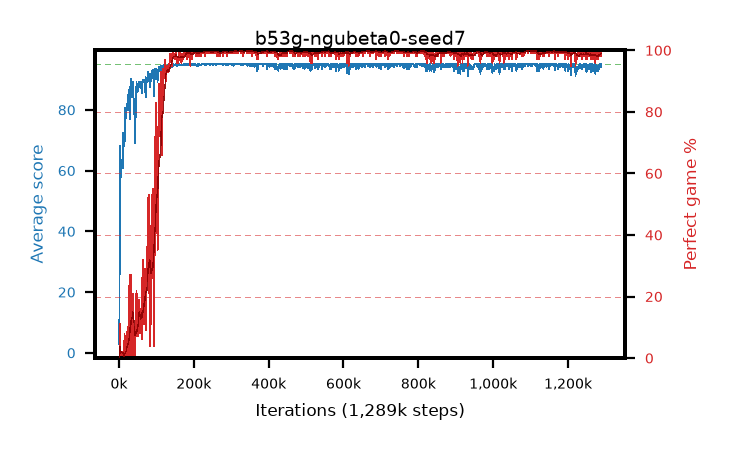
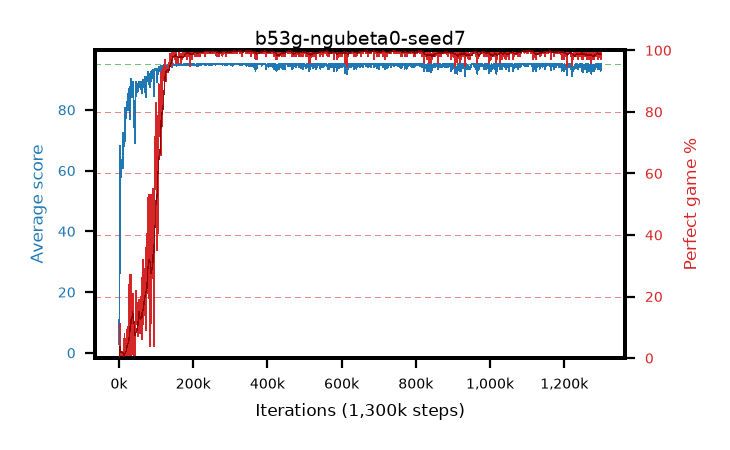
live pictures of 4 arm(s)

diff --git a/results/b53g-ngubeta0-seed7/b53g-ngubeta0-seed7.md b/results/b53g-ngubeta0-seed7/b53g-ngubeta0-seed7.md
@@ -1,6 +1,6 @@
 # b53g-ngubeta0-seed7
 
-step **1,289,000** · 1289 evals · trailing **93.96** · peak **94.97** @274,000 · sef **91.4** · best30 **99.8** @1,111,000
+step **1,300,000** · 1300 evals · trailing **94.14** · peak **94.97** @274,000 · sef **91.5** · best30 **99.8** @1,111,000
 
 ## Config
 
@@ -80,15 +80,15 @@ step **1,289,000** · 1289 evals · trailing **93.96** · peak **94.97** @274,00
 | 2000 | 37.8 | 20.34 | 6.0 | 63.0 | 32.628 | 0.0 | 0.4 |
 | 3000 | 67.99 | 36.22 | 23.0 | 95.0 | 74.006 | 11.0 | 0.4 |
 | ... | ... | ... | ... | ... | ... | ... | ... |
-| 1278000 | 94.29 | 93.82 | 24.0 | 95.0 | 192.045 | 99.0 | 0.4 |
-| 1279000 | 94.26 | 93.88 | 21.0 | 95.0 | 192.007 | 99.0 | 0.4 |
-| 1280000 | 92.62 | 93.88 | 12.0 | 95.0 | 188.29 | 97.0 | 0.4 |
-| 1281000 | 94.71 | 93.9 | 66.0 | 95.0 | 192.457 | 99.0 | 0.4 |
-| 1282000 | 94.31 | 93.89 | 26.0 | 95.0 | 192.053 | 99.0 | 0.4 |
-| 1283000 | 93.41 | 93.84 | 14.0 | 95.0 | 190.122 | 98.0 | 0.4 |
-| 1284000 | 95.0 | 93.87 | 95.0 | 95.0 | 193.786 | 100.0 | 0.4 |
-| 1285000 | 95.0 | 93.92 | 95.0 | 95.0 | 193.787 | 100.0 | 0.4 |
-| 1286000 | 94.2 | 93.91 | 15.0 | 95.0 | 191.945 | 99.0 | 0.4 |
-| 1287000 | 94.22 | 93.94 | 20.0 | 95.0 | 190.969 | 98.0 | 0.4 |
-| 1288000 | 95.0 | 93.98 | 95.0 | 95.0 | 193.783 | 100.0 | 0.4 |
 | 1289000 | 94.2 | 93.96 | 15.0 | 95.0 | 191.948 | 99.0 | 0.4 |
+| 1290000 | 95.0 | 93.96 | 95.0 | 95.0 | 193.786 | 100.0 | 0.4 |
+| 1291000 | 93.47 | 93.98 | 22.0 | 95.0 | 189.146 | 97.0 | 0.4 |
+| 1292000 | 93.46 | 94.02 | 17.0 | 95.0 | 189.171 | 97.0 | 0.4 |
+| 1293000 | 93.49 | 94.02 | 17.0 | 95.0 | 190.199 | 98.0 | 0.4 |
+| 1294000 | 95.0 | 94.02 | 95.0 | 95.0 | 193.782 | 100.0 | 0.4 |
+| 1295000 | 94.9 | 94.04 | 85.0 | 95.0 | 192.685 | 99.0 | 0.4 |
+| 1296000 | 94.92 | 94.04 | 87.0 | 95.0 | 192.714 | 99.0 | 0.4 |
+| 1297000 | 95.0 | 94.11 | 95.0 | 95.0 | 193.785 | 100.0 | 0.4 |
+| 1298000 | 92.83 | 94.06 | 20.0 | 95.0 | 188.497 | 97.0 | 0.4 |
+| 1299000 | 94.21 | 94.06 | 16.0 | 95.0 | 191.959 | 99.0 | 0.4 |
+| 1300000 | 95.0 | 94.14 | 95.0 | 95.0 | 193.793 | 100.0 | 0.4 |

diff --git a/results/b53e-ngubeta0-seed5/b53e-ngubeta0-seed5.md b/results/b53e-ngubeta0-seed5/b53e-ngubeta0-seed5.md
@@ -1,6 +1,6 @@
 # b53e-ngubeta0-seed5
 
-step **1,279,000** · 1279 evals · trailing **94.58** · peak **94.95** @437,000 · sef **92.1** · best30 **99.8** @530,000
+step **1,289,000** · 1289 evals · trailing **94.65** · peak **94.95** @437,000 · sef **92.2** · best30 **99.8** @530,000
 
 ## Config
 
@@ -80,15 +80,15 @@ step **1,279,000** · 1279 evals · trailing **94.58** · peak **94.95** @437,00
 | 2000 | 29.39 | 17.35 | 3.0 | 54.0 | 24.459 | 0.0 | 0.4 |
 | 3000 | 50.81 | 28.5 | 16.0 | 85.0 | 45.457 | 0.0 | 0.4 |
 | ... | ... | ... | ... | ... | ... | ... | ... |
-| 1268000 | 95.0 | 94.35 | 95.0 | 95.0 | 193.788 | 100.0 | 0.4 |
-| 1269000 | 95.0 | 94.4 | 95.0 | 95.0 | 193.788 | 100.0 | 0.4 |
-| 1270000 | 94.26 | 94.38 | 21.0 | 95.0 | 192.012 | 99.0 | 0.4 |
-| 1271000 | 95.0 | 94.47 | 95.0 | 95.0 | 193.777 | 100.0 | 0.4 |
-| 1272000 | 95.0 | 94.49 | 95.0 | 95.0 | 193.788 | 100.0 | 0.4 |
-| 1273000 | 95.0 | 94.51 | 95.0 | 95.0 | 193.79 | 100.0 | 0.4 |
-| 1274000 | 95.0 | 94.51 | 95.0 | 95.0 | 193.789 | 100.0 | 0.4 |
-| 1275000 | 94.59 | 94.55 | 54.0 | 95.0 | 192.337 | 99.0 | 0.4 |
-| 1276000 | 93.49 | 94.53 | 13.0 | 95.0 | 190.207 | 98.0 | 0.4 |
-| 1277000 | 95.0 | 94.53 | 95.0 | 95.0 | 193.788 | 100.0 | 0.4 |
 | 1278000 | 94.19 | 94.56 | 19.0 | 95.0 | 190.894 | 98.0 | 0.4 |
 | 1279000 | 95.0 | 94.58 | 95.0 | 95.0 | 193.783 | 100.0 | 0.4 |
+| 1280000 | 94.32 | 94.56 | 27.0 | 95.0 | 192.064 | 99.0 | 0.4 |
+| 1281000 | 94.27 | 94.56 | 22.0 | 95.0 | 192.013 | 99.0 | 0.4 |
+| 1282000 | 95.0 | 94.6 | 95.0 | 95.0 | 193.786 | 100.0 | 0.4 |
+| 1283000 | 95.0 | 94.6 | 95.0 | 95.0 | 193.787 | 100.0 | 0.4 |
+| 1284000 | 95.0 | 94.65 | 95.0 | 95.0 | 193.782 | 100.0 | 0.4 |
+| 1285000 | 95.0 | 94.67 | 95.0 | 95.0 | 193.785 | 100.0 | 0.4 |
+| 1286000 | 95.0 | 94.69 | 95.0 | 95.0 | 193.778 | 100.0 | 0.4 |
+| 1287000 | 93.54 | 94.67 | 21.0 | 95.0 | 190.256 | 98.0 | 0.4 |
+| 1288000 | 94.23 | 94.64 | 19.0 | 95.0 | 190.942 | 98.0 | 0.4 |
+| 1289000 | 94.25 | 94.65 | 28.0 | 95.0 | 190.956 | 98.0 | 0.4 |
